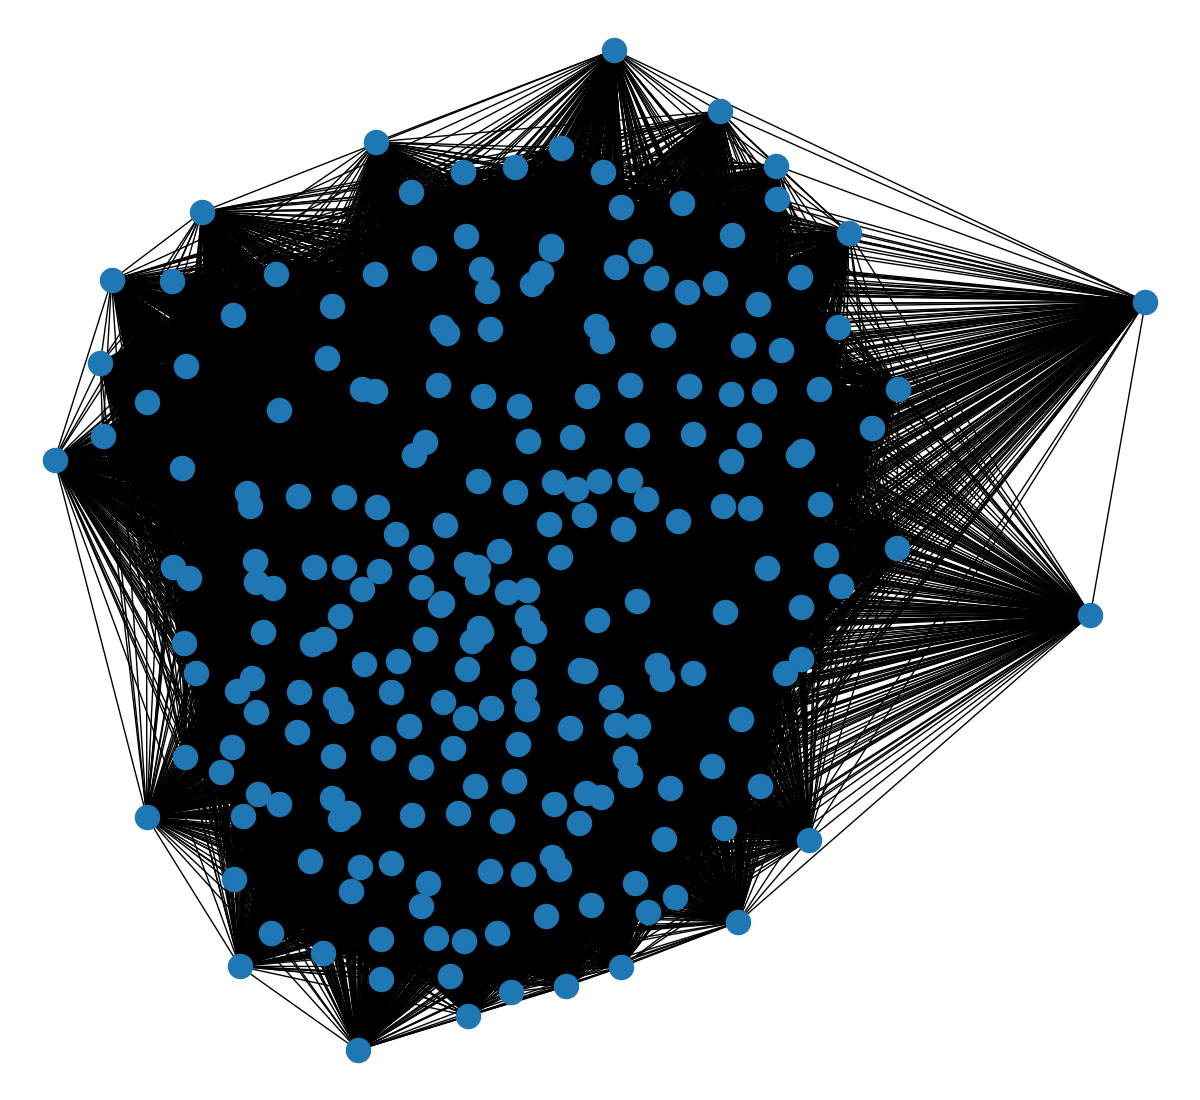
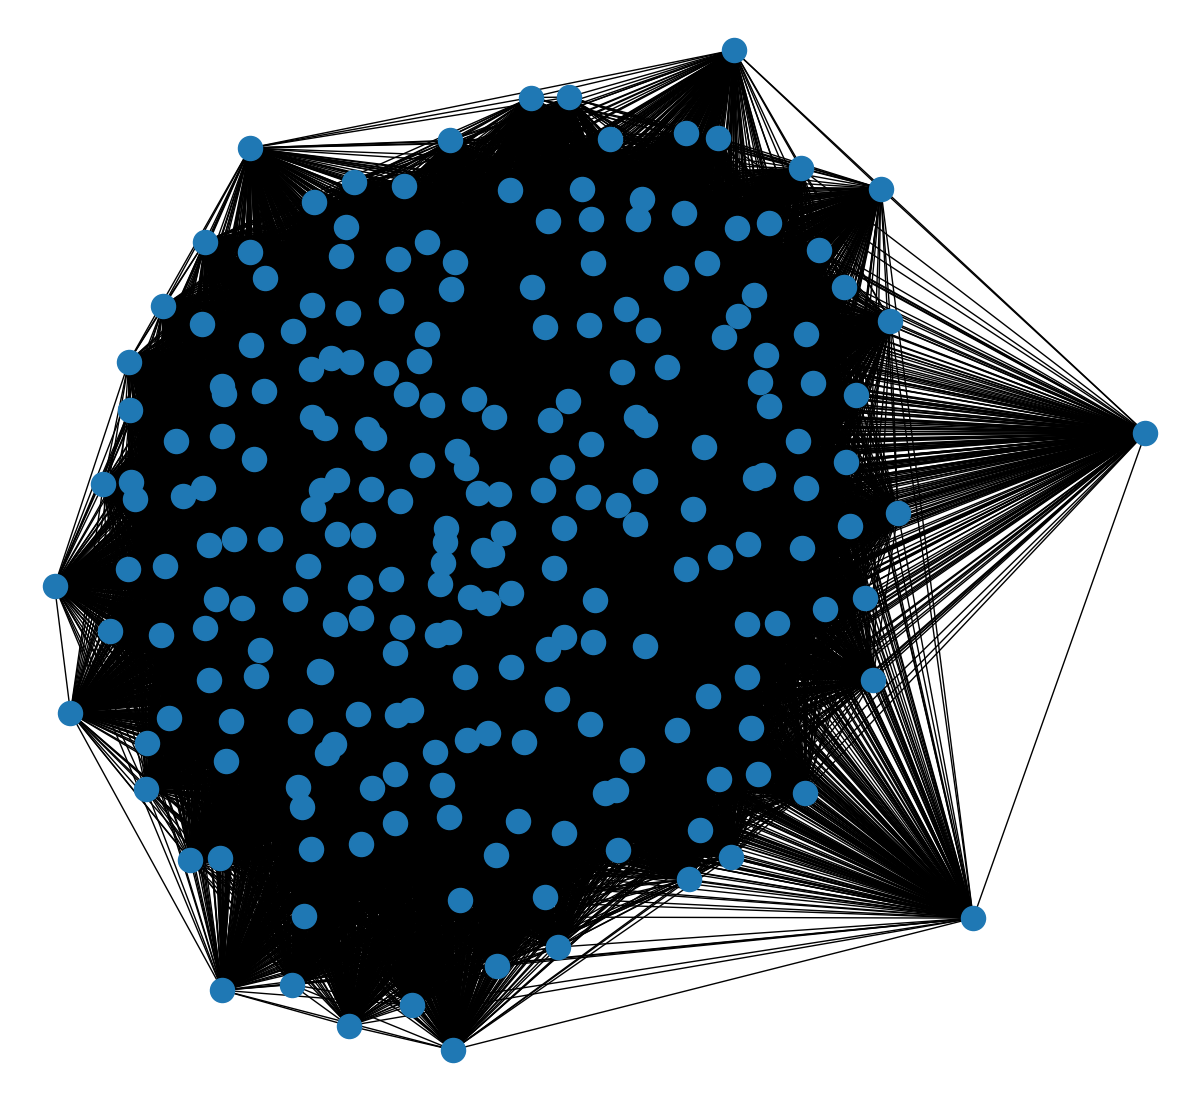
Add files via upload

Changed region(s): [[0.0308, 0.0309, 0.9867, 0.9891]]

diff --git a/politicians_create_graph and centralities2_2021.py b/politicians_create_graph and centralities2_2021.py
@@ -1,0 +1,97 @@
+# import community
+import operator
+import networkx as nx
+from networkx.algorithms import bipartite
+import matplotlib.pyplot as plt
+
+from pathlib import Path
+
+folder = '.'
+
+projected_graph_file = Path("nois_projected_graph_overlap_attributes.gexf")
+
+if not projected_graph_file.is_file():
+
+    G = nx.read_edgelist(
+        "C:\\Users\\Vaso Koutsoupia\\Documents\\DOCS VASSO\\Algorithms\\twitter data set\\TEST_etoimo dataset_clustering\\2021-11-14-twitter\\2021-11-14-twitter\\user-mp.edges",
+        delimiter=',')
+
+    print(f'Number of edges: {nx.number_of_edges(G)}')
+
+    # check if graph is bipartite
+    print(f'Graph is bipartite: {bipartite.is_bipartite(G)}')
+
+    # obtain node set
+    users, nopi = bipartite.sets(G)
+
+    print('users:', len(users))
+    print('nopi:', len(nopi))
+
+    # projected graph
+    H = bipartite.overlap_weighted_projected_graph(G, nopi, jaccard=False)
+
+    # read auxiliary information: party of each node
+    noi_list = list()
+    party = {}
+    node_type = {}
+    with open(folder + '\\' + 'mp-of-all-parties.txt', 'r') as f:
+        for i, line in enumerate(f):
+            tokens = line.split()
+            noi = tokens[0].strip()
+            noi_list.append(noi)
+            party[noi] = tokens[1].strip()
+            node_type[noi] = 'mp'
+
+    # store information as node attributes
+    nx.set_node_attributes(H, party, 'party')
+    nx.set_node_attributes(H, node_type, 'noitype')
+
+    # write projected graph
+    nx.write_gexf(H, projected_graph_file)
+
+
+else:
+    H = nx.read_gexf(projected_graph_file)
+
+
+G = nx.read_edgelist(
+    "C:\\Users\\Vaso Koutsoupia\\Documents\\DOCS VASSO\\Algorithms\\twitter data set\\TEST_etoimo dataset_clustering\\2021-11-14-twitter\\2021-11-14-twitter\\user-mp.edges",
+    delimiter=',')
+
+#print(H.nodes.items) #PAIRNW TA NODES, XWRIS ATTR
+#print(nx.is_directed(G), nx.is_weighted(G, edge=None, weight='weight')) #FALSE ,FALSE if G has not weighted edges
+#print(nx.is_directed(H), nx.is_weighted(H, edge=None, weight='weight')) #FALSE ,TRUE if H has weighted edges
+
+
+
+# Centralities
+# Degree
+degCent = nx.degree_centrality(G)
+print('degree:', sorted(degCent.items(), key=operator.itemgetter(1), reverse=True)[0:10])
+
+# Computing the distance attribute
+for (u, v) in H.edges():
+    w = H.edges[u, v]['weight']
+    H.edges[u, v]['distance'] = 1/w
+
+# Closeness
+closeCent = nx.closeness_centrality(H, u=None, distance='distance', wf_improved=True)
+print('closeness:', sorted(closeCent.items(), key=operator.itemgetter(1), reverse=True)[0:10])
+
+# betweenness
+btwnCent = nx.betweenness_centrality(H, normalized=True, weight='weight', endpoints=False)
+print('betweenness:', sorted(btwnCent.items(), key=operator.itemgetter(1), reverse=True)[0:10])
+
+# PageRank
+pageCent = nx.pagerank(H, alpha=0.85, weight='weight')
+print('pagerank:', sorted(pageCent.items(), key=operator.itemgetter(1), reverse=True)[0:10])
+
+# Eingenvector
+eigenCent = nx.eigenvector_centrality(H, weight='weight')
+print('eigenvector:', sorted(eigenCent.items(), key=operator.itemgetter(1), reverse=True)[0:10])
+
+# DRAW THE PROJECTION GRAPH
+plt.figure(figsize=(12, 11))
+nx.draw(H)
+plt.savefig("Graph_projected.png")
+plt.show()

diff --git a/politicians_create_graph and centralities1_2021.py b/politicians_create_graph and centralities1_2021.py
@@ -1,0 +1,83 @@
+import community
+import operator
+import networkx as nx
+from networkx.algorithms import bipartite
+import matplotlib.pyplot as plt
+
+from pathlib import Path
+
+folder = '.'
+
+projected_graph_file = Path("nois_projected_graph_overlap_attributes.gexf")
+
+if not projected_graph_file.is_file():
+ 
+    G = nx.read_edgelist("C:\\Users\\Vaso Koutsoupia\\Documents\\DOCS VASSO\\Algorithms\\twitter data set\\TEST_etoimo dataset_clustering\\2021-11-14-twitter\\2021-11-14-twitter\\user-mp.edges", delimiter=',')
+
+    print(f'Number of edges: {nx.number_of_edges(G)}')
+
+    #check if graph is bipartite
+    print(f'Graph is bipartite: {bipartite.is_bipartite(G)}')
+
+    #obtain node set
+    users, nopi = bipartite.sets(G)
+
+    print('users:', len(users))
+    print('nopi:', len(nopi))
+
+
+    #projected graph
+    H = bipartite.overlap_weighted_projected_graph(G, nopi, jaccard=False)
+
+
+    # read auxiliary information: party of each node
+    noi_list = list()
+    party = {}
+    node_type = {}
+    with open(folder + '\\' + 'mp-of-all-parties.txt', 'r') as f:
+        for i, line in enumerate(f):
+            tokens = line.split()
+            noi = tokens[0].strip()
+            noi_list.append(noi)
+            party[noi] = tokens[1].strip()
+            node_type[noi] = 'mp'
+
+    # store information as node attributes
+    nx.set_node_attributes(H, party, 'party')
+    nx.set_node_attributes(H, node_type, 'noitype')
+
+    #write projected graph
+    nx.write_gexf(H, projected_graph_file)
+
+
+else:
+    H = nx.read_gexf(projected_graph_file)
+
+#Centralities
+
+#Degree
+degCent = nx.degree_centrality(H)
+print('degree:', sorted(degCent.items(), key=operator.itemgetter(1), reverse=True)[0:10])
+
+#Closeness
+closeCent = nx.closeness_centrality(H)
+print('closeness:', sorted(closeCent.items(), key=operator.itemgetter(1), reverse=True)[0:10])
+
+#betweenness
+btwnCent = nx.betweenness_centrality(H, normalized=False, endpoints=False)
+print('betweenness:', sorted(btwnCent.items(), key=operator.itemgetter(1), reverse=True)[0:10])
+
+#PageRank
+pageCent = nx.pagerank(H, alpha=0.85)
+print('pagerank:', sorted(closeCent.items(), key=operator.itemgetter(1), reverse=True)[0:10])
+
+#Eigenvector
+eingCent = nx.eigenvector_centrality(H)
+print('eigenvector:', sorted(closeCent.items(), key=operator.itemgetter(1), reverse=True)[0:10])
+
+
+#DRAW THE PROJECTION GRAPH
+plt.figure(figsize=(12,11))
+nx.draw(H)
+plt.savefig("Graph_projected.png")
+plt.show()
